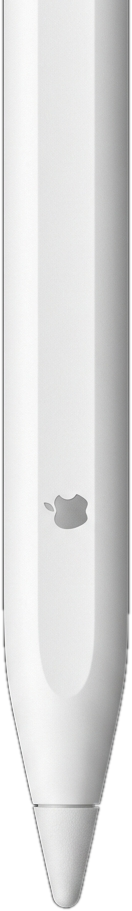
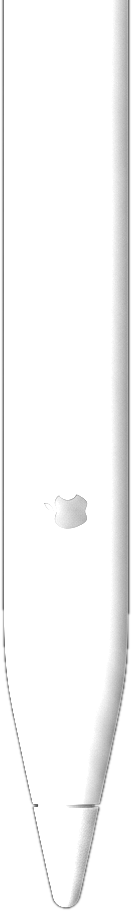
better pencil color

diff --git a/cybrush-app/src/components/StartPage.tsx b/cybrush-app/src/components/StartPage.tsx
@@ -184,9 +184,9 @@ const StartPage: React.FC = () => {
                                     }}
                                 >
                                     <img
-                                        src="/shuaibi_pencil_ultimate.gif"
+                                        src="/shuaibi_vertical_ultimate_v2.gif"
                                         alt="Shuaibi Calligraphy Animation"
-                                        className="w-[100%] h-auto opacity-95 select-none transition-opacity duration-1000 mix-blend-multiply"
+                                        className="w-[100%] h-auto opacity-95 select-none transition-opacity duration-1000"
                                     />
 
                                     <div

diff --git a/animate_strokes_vertical_ultimate_v2.py b/animate_strokes_vertical_ultimate_v2.py
@@ -146,12 +146,25 @@ def render_animation():
     shua_masks = [get_stroke_mask(s) for s in shua_strokes]
     bi_masks = [get_stroke_mask(s) for s in bi_strokes]
 
-    frames, ink_color = [], (0, 0, 0, 255)
-    canvas = Image.new("RGBA", (W, H), (255, 255, 255, 255))
+    frames, ink_color = [], (0, 0, 0, 255) # Black ink
+    
+    # LOAD PAPER TEXTURE & PREPARE CANVAS
+    paper_path = "cybrush-app/public/antique-xuan.png"
+    try:
+        paper_bg = Image.open(paper_path).convert("RGBA")
+        # Resize paper to fill the canvas (crop/fill)
+        paper_bg = ImageOps.fit(paper_bg, (W, H), method=Image.BICUBIC, bleed=0.0, centering=(0.5, 0.5))
+    except Exception as e:
+        print(f"Error loading paper {paper_path}: {e}")
+        # Fallback to white if paper fails
+        paper_bg = Image.new("RGBA", (W, H), (255, 255, 255, 255))
+
+    canvas = paper_bg.copy() # Start with clean paper
+    
     char_sequence = [(shua_strokes, shua_medians, shua_masks), (bi_strokes, bi_medians, bi_masks)]
     
     # INITIAL HOLD (BLANK PAPER)
-    blank_frame = Image.new("RGBA", (W, H), (255, 255, 255, 255))
+    blank_frame = canvas.copy()
     for _ in range(15): frames.append(blank_frame)
 
     for strokes, medians, masks in char_sequence:
@@ -162,8 +175,7 @@ def render_animation():
             
             # FRAME: TIP ARRIVAL
             tip_p_start = stroke_median[0]
-            arr_frame = Image.new("RGBA", (W, H), (255, 255, 255, 255))
-            arr_frame.paste(canvas, (0,0), canvas)
+            arr_frame = canvas.copy()
             paste_pos_start = (int(tip_p_start[0] - final_tip_x), int(tip_p_start[1] - final_tip_y))
             arr_frame.paste(rotated_tip, paste_pos_start, rotated_tip)
             frames.append(arr_frame)
@@ -172,37 +184,49 @@ def render_animation():
             for j in range(0, num_pts + 1, step):
                 limit = min(j, num_pts)
                 if limit > 0:
+                    # DRAW INK PERMANENTLY ONTO THE CANVAS (Paper + Old Ink)
                     brush_layer = Image.new("RGBA", (W, H), (0,0,0,0))
                     brush_draw = ImageDraw.Draw(brush_layer)
+                    
+                    # Draw only the NEW segment of the stroke to avoid redrawing everything?
+                    # Actually, the logic below draws the whole stroke so far (0..limit)
+                    # To be efficient and correct with opacity stacking (if any), we should be careful.
+                    # But since ink is solid black (alpha 255), redrawing is fine.
+                    
                     start_k = max(0, limit - step)
                     for k in range(start_k, limit):
                         p, r = stroke_median[k], 100
+                        # Draw black circle
                         brush_draw.ellipse([p[0]-r, p[1]-r, p[0]+r, p[1]+r], fill=ink_color)
-                    masked_release = Image.new("RGBA", (W, H), (0,0,0,0))
-                    masked_release.paste(brush_layer, (0,0), stroke_mask)
-                    canvas.paste(masked_release, (0,0), masked_release)
+                    
+                    # Apply mask to this brush layer
+                    masked_ink = Image.new("RGBA", (W, H), (0,0,0,0))
+                    masked_ink.paste(brush_layer, (0,0), stroke_mask)
+                    
+                    # COMPOSITE ink onto canvas
+                    # Using alpha_composite or paste with mask
+                    canvas.paste(masked_ink, (0,0), masked_ink)
                 
-                frame = Image.new("RGBA", (W, H), (255, 255, 255, 255))
-                frame.paste(canvas, (0,0), canvas)
+                # CREATE DISPLAY FRAME (Canvas + Pencil)
+                frame = canvas.copy()
                 tip_p = stroke_median[min(limit, num_pts - 1)]
                 paste_pos = (int(tip_p[0] - final_tip_x), int(tip_p[1] - final_tip_y))
                 frame.paste(rotated_tip, paste_pos, rotated_tip)
                 frames.append(frame)
                 if limit >= num_pts: break
             
-            # FRAME: TIP REMOVAL
-            rem_frame = Image.new("RGBA", (W, H), (255, 255, 255, 255))
-            rem_frame.paste(canvas, (0,0), canvas)
+            # FRAME: TIP REMOVAL (Just show canvas)
+            rem_frame = canvas.copy()
             frames.append(rem_frame)
 
     # FINAL HOLD
-    final_canvas_only = Image.new("RGBA", (W, H), (255, 255, 255, 255))
-    final_canvas_only.paste(canvas, (0,0), canvas)
+    final_canvas_only = canvas.copy()
     for _ in range(30): frames.append(final_canvas_only)
 
     if len(frames) > 400: frames = frames[::2]
+    # Save as standard GIF (no transparency needed as background is full paper)
     frames[0].save("shuaibi_vertical_ultimate_v2.gif", save_all=True, append_images=frames[1:], duration=45, loop=0)
-    print("Vertical Ultimate V2 animation saved with black ink on white bg.")
+    print("Vertical Ultimate V2 animation saved with black ink on ANTIQUE XUAN PAPER.")
 
 if __name__ == "__main__":
     render_animation()

diff --git a/process_pencil.py b/process_pencil.py
@@ -1,4 +1,4 @@
-from PIL import Image, ImageDraw, ImageFilter, ImageOps
+from PIL import Image, ImageDraw, ImageFilter, ImageOps, ImageEnhance
 import numpy as np
 
 def process_pencil():
@@ -6,9 +6,37 @@ def process_pencil():
         # Load source
         img = Image.open("apple_pencil_source.png").convert("RGBA")
         
-        # Create mask from brightness
+        # Desaturate to remove yellow tint (Apple Pencil is white/grey)
+        enhancer = ImageEnhance.Color(img)
+        img = enhancer.enhance(0.0) # 0.0 means full grayscale/no color
+        
+        # Capture the array for masking BEFORE we brighten the image
+        # This prevents the background from becoming bright enough to be selected by the mask
         arr = np.array(img)
-        # Calculate brightness
+        
+        # Custom contrast/brightness curve using a point function (LUT)
+        # This brightens the light greys (body) to white, while keeping dark greys (logo) visible
+        # Map: 0->0 (black stays black), 100->80 (dark grey stays somewhat dark), 150->255 (mid-grey becomes white)
+        def lut(x):
+            # Sigmoid-ish curve:
+            # Below 128 (dark): keep relatively dark (x*0.8)
+            # Above 128 (light): push quickly to 255
+            if x < 100:
+                return int(x * 0.9) 
+            elif x > 180:
+                return 255
+            else:
+                # Linear interpolation between 100->90 and 180->255
+                return int(90 + (x - 100) * (165 / 80))
+
+        # Apply LUT to each channel (since it's greyscale now, they are same)
+        # We need to split, apply, and merge or just apply to the image if composite
+        # Since enhance(0.0) makes it grayscale RGB (R=G=B), we can apply to L and convert back
+        gray = img.convert("L")
+        gray = gray.point(lut)
+        img = gray.convert("RGBA")
+        
+        # Calculate brightness for MASK from the original (darker/desaturated) array
         brightness = np.mean(arr[:, :, :3], axis=2)
         
         # Create alpha channel: 0 if dark, 255 if bright
